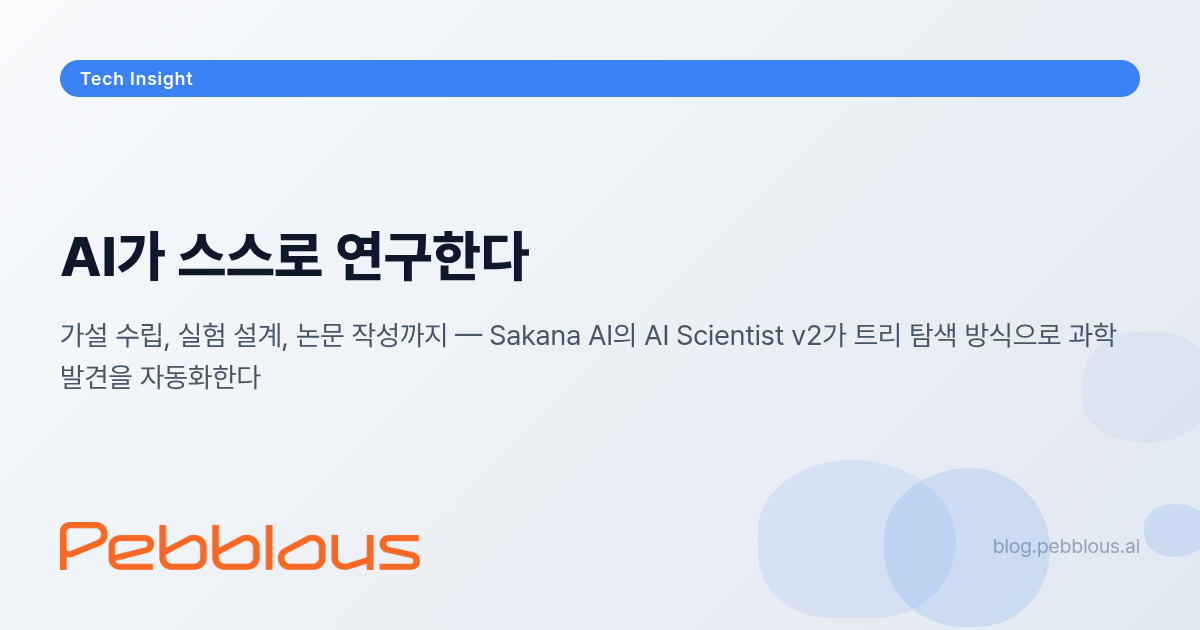
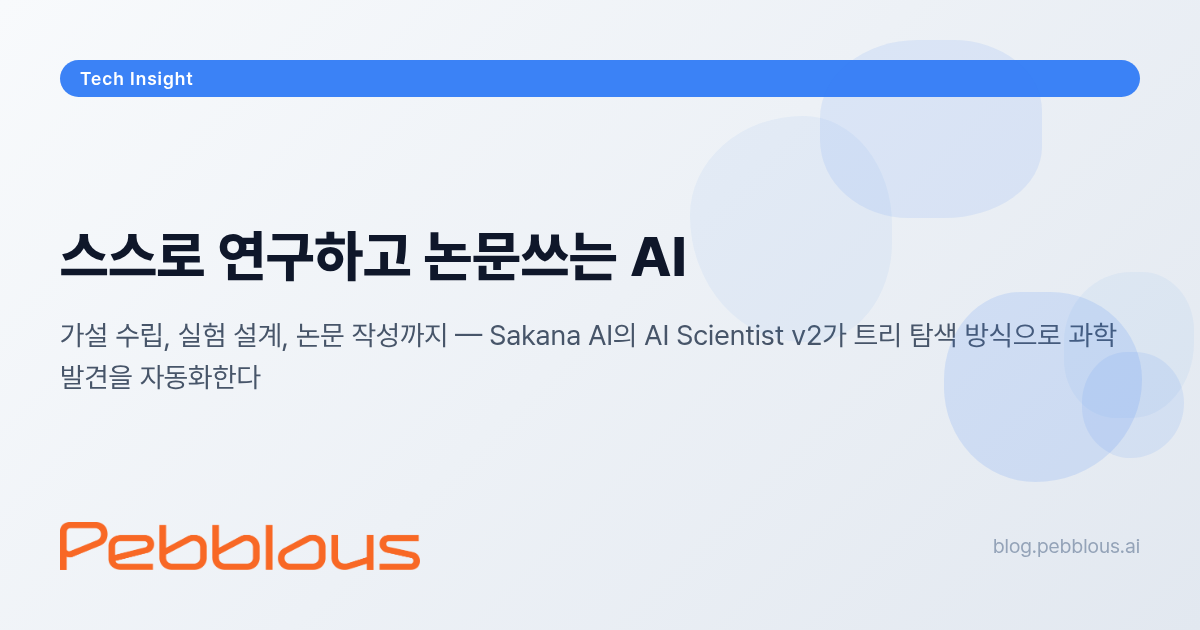
feat(ai-scientist-v2): update og-image title → '스스로 연구하고 논문쓰는 AI'

diff --git a/project/AgenticAI/ai-scientist-v2/ko/index.html b/project/AgenticAI/ai-scientist-v2/ko/index.html
@@ -23,7 +23,7 @@
     <link rel="alternate" hreflang="x-default" href="https://blog.pebblous.ai/project/AgenticAI/ai-scientist-v2/ko/">
 
     <!-- Open Graph -->
-    <meta name="og-image-title" content="AI가 스스로 연구한다">
+    <meta name="og-image-title" content="스스로 연구하고 논문쓰는 AI">
     <meta property="og:title" content="AI가 스스로 연구한다 — AI Scientist v2와 산업 데이터 자동 분석의 미래">
     <meta property="og:description" content="가설 수립, 실험 설계, 논문 작성까지 — Sakana AI의 AI Scientist v2가 트리 탐색 방식으로 과학 발견을 자동화한다">
     <meta property="og:type" content="article">
